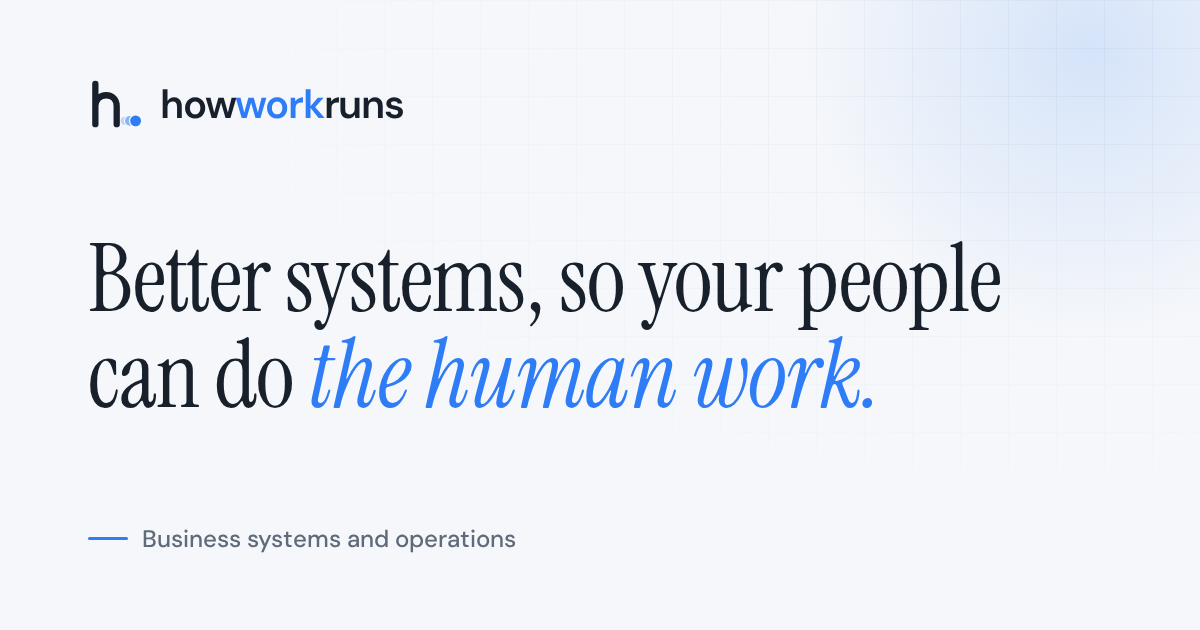
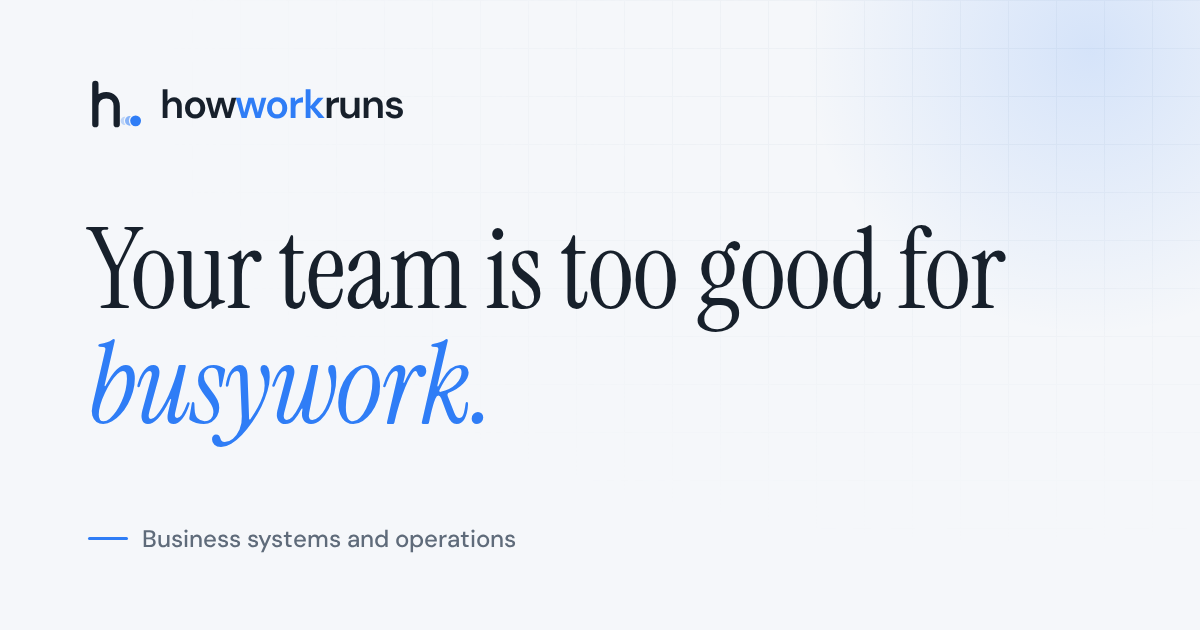
New tagline: Your team is too good for busywork. Re-render share image, v13

Changed region(s): [[0.0617, 0.3619, 0.8325, 0.7238]]

diff --git a/index.html b/index.html
@@ -9,7 +9,7 @@
   <link rel="preconnect" href="https://fonts.googleapis.com">
   <link rel="preconnect" href="https://fonts.gstatic.com" crossorigin>
   <link href="https://fonts.googleapis.com/css2?family=DM+Sans:wght@400;500;600&family=Instrument+Serif:ital@0;1&display=swap" rel="stylesheet">
-  <link rel="stylesheet" href="styles.css?v=12">
+  <link rel="stylesheet" href="styles.css?v=13">
   <link rel="icon" href="favicon.svg" type="image/svg+xml">
   <meta name="theme-color" content="#0b1220">
   <link rel="canonical" href="https://zandergrant.github.io/workrefactor/">
@@ -21,10 +21,10 @@
   <meta property="og:image" content="https://zandergrant.github.io/workrefactor/og-image.png">
   <meta property="og:image:width" content="1200">
   <meta property="og:image:height" content="630">
-  <meta property="og:image:alt" content="howworkruns: Better systems, so your people can do the human work.">
+  <meta property="og:image:alt" content="howworkruns: Your team is too good for busywork.">
   <meta name="twitter:card" content="summary_large_image">
   <meta name="twitter:image" content="https://zandergrant.github.io/workrefactor/og-image.png">
-  <script defer src="site.js?v=12"></script>
+  <script defer src="site.js?v=13"></script>
 </head>
 <body class="home-page">
 
@@ -60,7 +60,7 @@
         <p class="eyebrow hero-eyebrow">Business systems · operations · workflow design</p>
         <h1>Make your business <em>easier to run.</em></h1>
         <p class="hero-copy">
-          We design the systems and day-to-day operations that take busywork off your team, so people have more time for judgment, relationships, and the craft they were hired for.
+          We design the systems and day-to-day operations that take busywork off your team, so people have more time for the human parts of the job: judgment, relationships, and the craft they were hired for.
         </p>
         <div class="hero-actions">
           <a class="button button-primary" href="contact/">Start a project</a>
@@ -323,7 +323,7 @@
     </div>
     <div class="container footer-bottom">
       <span>&copy; <span data-current-year>2026</span> howworkruns</span>
-      <span>Better systems, so your people can do the human work.</span>
+      <span>Your team is too good for busywork.</span>
     </div>
   </footer>
 

diff --git a/ai-for-operations/index.html b/ai-for-operations/index.html
@@ -9,7 +9,7 @@
   <link rel="preconnect" href="https://fonts.googleapis.com">
   <link rel="preconnect" href="https://fonts.gstatic.com" crossorigin>
   <link href="https://fonts.googleapis.com/css2?family=DM+Sans:wght@400;500;600&amp;family=Instrument+Serif:ital@0;1&amp;display=swap" rel="stylesheet">
-  <link rel="stylesheet" href="../styles.css?v=12">
+  <link rel="stylesheet" href="../styles.css?v=13">
   <script type="application/ld+json">
 {
   "@context": "https://schema.org",
@@ -97,10 +97,10 @@
   <meta property="og:image" content="https://zandergrant.github.io/workrefactor/og-image.png">
   <meta property="og:image:width" content="1200">
   <meta property="og:image:height" content="630">
-  <meta property="og:image:alt" content="howworkruns: Better systems, so your people can do the human work.">
+  <meta property="og:image:alt" content="howworkruns: Your team is too good for busywork.">
   <meta name="twitter:card" content="summary_large_image">
   <meta name="twitter:image" content="https://zandergrant.github.io/workrefactor/og-image.png">
-  <script defer src="../site.js?v=12"></script>
+  <script defer src="../site.js?v=13"></script>
 </head>
 <body class="guide-page">
   <a class="skip-link" href="#main">Skip to content</a>
@@ -380,7 +380,7 @@ Do not approve the request or take an external action.</code></pre>
     </div>
     <div class="container footer-bottom">
       <span>&copy; <span data-current-year>2026</span> howworkruns</span>
-      <span>Better systems, so your people can do the human work.</span>
+      <span>Your team is too good for busywork.</span>
     </div>
   </footer>
 </body>

diff --git a/internal-tools/index.html b/internal-tools/index.html
@@ -9,7 +9,7 @@
   <link rel="preconnect" href="https://fonts.googleapis.com">
   <link rel="preconnect" href="https://fonts.gstatic.com" crossorigin>
   <link href="https://fonts.googleapis.com/css2?family=DM+Sans:wght@400;500;600&amp;family=Instrument+Serif:ital@0;1&amp;display=swap" rel="stylesheet">
-  <link rel="stylesheet" href="../styles.css?v=12">
+  <link rel="stylesheet" href="../styles.css?v=13">
   <script type="application/ld+json">
 {
   "@context": "https://schema.org",
@@ -113,10 +113,10 @@
   <meta property="og:image" content="https://zandergrant.github.io/workrefactor/og-image.png">
   <meta property="og:image:width" content="1200">
   <meta property="og:image:height" content="630">
-  <meta property="og:image:alt" content="howworkruns: Better systems, so your people can do the human work.">
+  <meta property="og:image:alt" content="howworkruns: Your team is too good for busywork.">
   <meta name="twitter:card" content="summary_large_image">
   <meta name="twitter:image" content="https://zandergrant.github.io/workrefactor/og-image.png">
-  <script defer src="../site.js?v=12"></script>
+  <script defer src="../site.js?v=13"></script>
 </head>
 <body class="guide-page">
   <a class="skip-link" href="#main">Skip to content</a>
@@ -3271,7 +3271,7 @@
     </div>
     <div class="container footer-bottom">
       <span>&copy; <span data-current-year>2026</span> howworkruns</span>
-      <span>Better systems, so your people can do the human work.</span>
+      <span>Your team is too good for busywork.</span>
     </div>
   </footer>
 </body>

diff --git a/404.html b/404.html
@@ -11,7 +11,7 @@
   <link rel="preconnect" href="https://fonts.googleapis.com">
   <link rel="preconnect" href="https://fonts.gstatic.com" crossorigin>
   <link href="https://fonts.googleapis.com/css2?family=DM+Sans:wght@400;500;600&family=Instrument+Serif:ital@0;1&display=swap" rel="stylesheet">
-  <link rel="stylesheet" href="/workrefactor/styles.css?v=12">
+  <link rel="stylesheet" href="/workrefactor/styles.css?v=13">
   <link rel="icon" href="/workrefactor/favicon.svg" type="image/svg+xml">
   <meta name="theme-color" content="#0b1220">
   
@@ -23,10 +23,10 @@
   <meta property="og:image" content="https://zandergrant.github.io/workrefactor/og-image.png">
   <meta property="og:image:width" content="1200">
   <meta property="og:image:height" content="630">
-  <meta property="og:image:alt" content="howworkruns: Better systems, so your people can do the human work.">
+  <meta property="og:image:alt" content="howworkruns: Your team is too good for busywork.">
   <meta name="twitter:card" content="summary_large_image">
   <meta name="twitter:image" content="https://zandergrant.github.io/workrefactor/og-image.png">
-  <script defer src="/workrefactor/site.js?v=12"></script>
+  <script defer src="/workrefactor/site.js?v=13"></script>
 </head>
 <body>
 
@@ -98,7 +98,7 @@
     </div>
     <div class="container footer-bottom">
       <span>&copy; <span data-current-year>2026</span> howworkruns</span>
-      <span>Better systems, so your people can do the human work.</span>
+      <span>Your team is too good for busywork.</span>
     </div>
   </footer>
 

diff --git a/business-systems/index.html b/business-systems/index.html
@@ -9,7 +9,7 @@
   <link rel="preconnect" href="https://fonts.googleapis.com">
   <link rel="preconnect" href="https://fonts.gstatic.com" crossorigin>
   <link href="https://fonts.googleapis.com/css2?family=DM+Sans:wght@400;500;600&amp;family=Instrument+Serif:ital@0;1&amp;display=swap" rel="stylesheet">
-  <link rel="stylesheet" href="../styles.css?v=12">
+  <link rel="stylesheet" href="../styles.css?v=13">
   <script type="application/ld+json">
 {
   "@context": "https://schema.org",
@@ -97,10 +97,10 @@
   <meta property="og:image" content="https://zandergrant.github.io/workrefactor/og-image.png">
   <meta property="og:image:width" content="1200">
   <meta property="og:image:height" content="630">
-  <meta property="og:image:alt" content="howworkruns: Better systems, so your people can do the human work.">
+  <meta property="og:image:alt" content="howworkruns: Your team is too good for busywork.">
   <meta name="twitter:card" content="summary_large_image">
   <meta name="twitter:image" content="https://zandergrant.github.io/workrefactor/og-image.png">
-  <script defer src="../site.js?v=12"></script>
+  <script defer src="../site.js?v=13"></script>
 </head>
 <body class="guide-page">
   <a class="skip-link" href="#main">Skip to content</a>
@@ -356,7 +356,7 @@
     </div>
     <div class="container footer-bottom">
       <span>&copy; <span data-current-year>2026</span> howworkruns</span>
-      <span>Better systems, so your people can do the human work.</span>
+      <span>Your team is too good for busywork.</span>
     </div>
   </footer>
 </body>

diff --git a/contact/index.html b/contact/index.html
@@ -40,7 +40,7 @@
 
   <link
     rel="stylesheet"
-    href="../styles.css?v=12"
+    href="../styles.css?v=13"
   >
 
   <link rel="icon" href="../favicon.svg" type="image/svg+xml">
@@ -54,10 +54,10 @@
   <meta property="og:image" content="https://zandergrant.github.io/workrefactor/og-image.png">
   <meta property="og:image:width" content="1200">
   <meta property="og:image:height" content="630">
-  <meta property="og:image:alt" content="howworkruns: Better systems, so your people can do the human work.">
+  <meta property="og:image:alt" content="howworkruns: Your team is too good for busywork.">
   <meta name="twitter:card" content="summary_large_image">
   <meta name="twitter:image" content="https://zandergrant.github.io/workrefactor/og-image.png">
-  <script defer src="../site.js?v=12"></script>
+  <script defer src="../site.js?v=13"></script>
 </head>
 
 
@@ -1020,7 +1020,7 @@
     </div>
     <div class="container footer-bottom">
       <span>&copy; <span data-current-year>2026</span> howworkruns</span>
-      <span>Better systems, so your people can do the human work.</span>
+      <span>Your team is too good for busywork.</span>
     </div>
   </footer>
 

diff --git a/business-process-automation/index.html b/business-process-automation/index.html
@@ -40,7 +40,7 @@
 
   <link
     rel="stylesheet"
-    href="../styles.css?v=12"
+    href="../styles.css?v=13"
   >
 
 
@@ -150,10 +150,10 @@
   <meta property="og:image" content="https://zandergrant.github.io/workrefactor/og-image.png">
   <meta property="og:image:width" content="1200">
   <meta property="og:image:height" content="630">
-  <meta property="og:image:alt" content="howworkruns: Better systems, so your people can do the human work.">
+  <meta property="og:image:alt" content="howworkruns: Your team is too good for busywork.">
   <meta name="twitter:card" content="summary_large_image">
   <meta name="twitter:image" content="https://zandergrant.github.io/workrefactor/og-image.png">
-  <script defer src="../site.js?v=12"></script>
+  <script defer src="../site.js?v=13"></script>
 </head>
 
 
@@ -2952,7 +2952,7 @@
     </div>
     <div class="container footer-bottom">
       <span>&copy; <span data-current-year>2026</span> howworkruns</span>
-      <span>Better systems, so your people can do the human work.</span>
+      <span>Your team is too good for busywork.</span>
     </div>
   </footer>
 

diff --git a/workflow-automation/index.html b/workflow-automation/index.html
@@ -40,7 +40,7 @@
 
   <link
     rel="stylesheet"
-    href="../styles.css?v=12"
+    href="../styles.css?v=13"
   >
 
 
@@ -134,10 +134,10 @@
   <meta property="og:image" content="https://zandergrant.github.io/workrefactor/og-image.png">
   <meta property="og:image:width" content="1200">
   <meta property="og:image:height" content="630">
-  <meta property="og:image:alt" content="howworkruns: Better systems, so your people can do the human work.">
+  <meta property="og:image:alt" content="howworkruns: Your team is too good for busywork.">
   <meta name="twitter:card" content="summary_large_image">
   <meta name="twitter:image" content="https://zandergrant.github.io/workrefactor/og-image.png">
-  <script defer src="../site.js?v=12"></script>
+  <script defer src="../site.js?v=13"></script>
 </head>
 
 
@@ -2399,7 +2399,7 @@
     </div>
     <div class="container footer-bottom">
       <span>&copy; <span data-current-year>2026</span> howworkruns</span>
-      <span>Better systems, so your people can do the human work.</span>
+      <span>Your team is too good for busywork.</span>
     </div>
   </footer>
 
